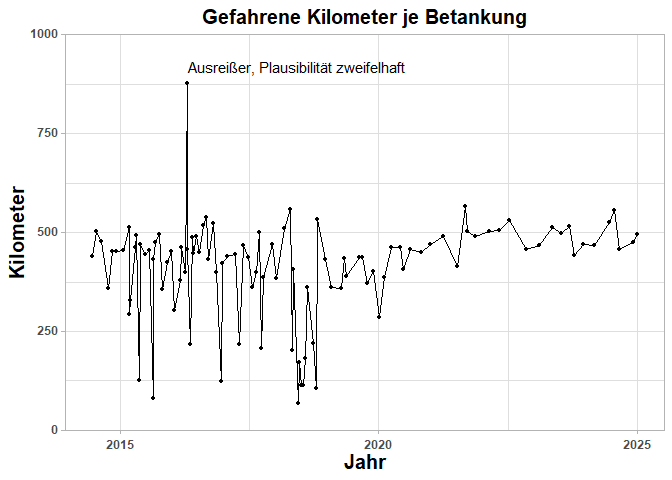
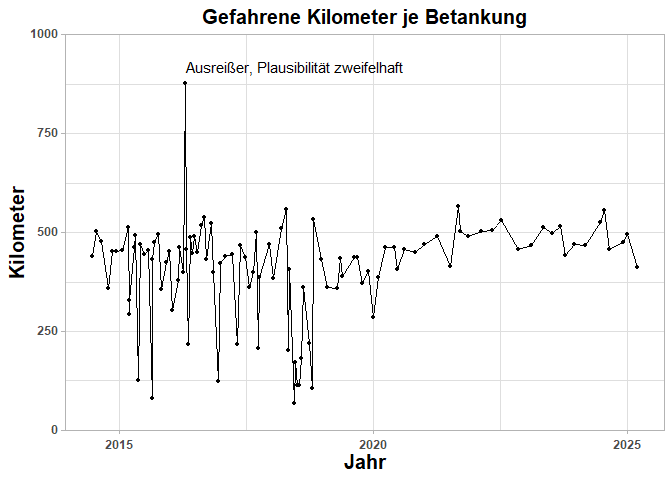
Markdown-Präsentationen aktualisiert.

diff --git a/Tankstatistik_Markdown_GitHub.md b/Tankstatistik_Markdown_GitHub.md
@@ -1,20 +1,18 @@
 Tankstatistik
 ================
 Bart R. Dutkiewicz
-27.03.2025
+25.05.2025
 
 ## Tank- und Verbrauchsstatistik eines Toyota Corolla Bj. 1998 ab Juni 2014
 
-In diesem Dokument wird die Tankstatistik eines Toyota Corolla Bj. 1998
+In diesem Projekt wird die Tankstatistik eines Toyota Corolla Bj. 1998
 seit 2014 fortlaufend ausgewertet. Das Auto wird durch den Urheber
 dieser Auswertung überwiegend innerhalb der Region Stuttgart bewegt und
-an städischen (sehr selten: an der Autobahn) Tankstellen der selben
-Region betankt.
+an städischen Tankstellen betankt (in sehr seltenen Fällen an der
+Autobahn).
 
-Dieses Dokument und der zugrundeliegende Code ist
-<b>Work-In-Progress</b> (seit 2015) und das Datum bezieht sich auf die
-letzte <i>wesentliche</i> Änderung im Code. <b>Der Datensatz wird
-laufend ergänzt.</b> Die verwendete Version von R ist 4.4.3.
+Dieses Projekt ist <b>Work-In-Progress</b> und der Datensatz wird
+laufend ergänzt.</b> Die verwendete Version von R ist 4.5.1.
 
 <b>Bei dem Auto handelt es sich um:</b>
 
@@ -182,7 +180,8 @@ auf einem Mobiltelefon (Kilometerstände) erfasst:</b>
     ## 102  27     8 2024     17      9 39.01      1.719 67.06 456.000    150366
     ## 103   2    12 2024     10     13 37.77      1.719 64.93 474.200    150840
     ## 104  31    12 2024     18     53 41.32      1.749 72.27 495.400    151336
-    ## 105  13     3 2025      7     15 38.42      1.839 70.65      NA        NA
+    ## 105  13     3 2025      7     15 38.42      1.839 70.65 411.650    151747
+    ## 106  21     7 2025     15     18 38.44      1.709 65.69      NA        NA
 
 Es ist zu sehen, dass der Datensatz aufgrund von verlorenen oder
 nicht-erhobenen Daten lückenhaft ist
@@ -425,7 +424,8 @@ df.raw$Euro.Tag <- round(df.raw$Euro.Tag, 4)
     ## 102  27     8 2024     17      9 39.01      1.719 67.06 456    150366
     ## 103   2    12 2024     10     13 37.77      1.719 64.93 474    150840
     ## 104  31    12 2024     18     53 41.32      1.749 72.27 495    151336
-    ## 105  13     3 2025      7     15 38.42      1.839 70.65  NA        NA
+    ## 105  13     3 2025      7     15 38.42      1.839 70.65 412    151747
+    ## 106  21     7 2025     15     18 38.44      1.709 65.69  NA        NA
     ##          Datum Tage Liter.km Euro.km  km.Tag Liter.Tag Euro.Tag
     ## 1   2014-06-20   25   0.0909  0.1363  17.608    1.6000   2.4000
     ## 2   2014-07-15   38   0.0767  0.1203  13.242    1.0155   1.5934
@@ -531,7 +531,8 @@ df.raw$Euro.Tag <- round(df.raw$Euro.Tag, 4)
     ## 102 2024-08-27   97   0.0855  0.1471   4.701    0.4022   0.6913
     ## 103 2024-12-02   29   0.0796  0.1369  16.352    1.3024   2.2390
     ## 104 2024-12-31   72   0.0834  0.1459   6.881    0.5739   1.0037
-    ## 105 2025-03-13   NA       NA      NA      NA        NA       NA
+    ## 105 2025-03-13  130   0.0933  0.1716   3.167    0.2955   0.5435
+    ## 106 2025-07-21   NA       NA      NA      NA        NA       NA
 
 #### Datenstruktur des rekonstruierten Datensatzes
 
@@ -539,7 +540,7 @@ df.raw$Euro.Tag <- round(df.raw$Euro.Tag, 4)
 str(df.raw)
 ```
 
-    ## 'data.frame':    105 obs. of  17 variables:
+    ## 'data.frame':    106 obs. of  17 variables:
     ##  $ Tag       : int  20 15 22 12 7 8 22 6 8 11 ...
     ##  $ Monat     : int  6 7 8 10 11 12 1 3 3 3 ...
     ##  $ Jahr      : int  2014 2014 2014 2014 2014 2014 2015 2015 2015 2015 ...
@@ -594,7 +595,7 @@ und Posit.Cloud zu Verfügung gestellt.
 
 | Liter | Euro |    km | Tage | Betankungen |
 |------:|-----:|------:|-----:|------------:|
-|  3582 | 5205 | 42954 | 3919 |         104 |
+|  3620 | 5275 | 43366 | 4049 |         105 |
 
 Gesamtsummen seit Juni 2014
 
@@ -622,16 +623,16 @@ In den zwei rechten Spalten sind:
 
 |            | Arith. Mittel | Median | Absolute Differenz | Prozentuale Differenz |
 |:-----------|--------------:|-------:|-------------------:|----------------------:|
-| Liter      |         34.44 |  37.72 |               3.28 |                  8.69 |
-| Euro_Liter |          1.45 |   1.42 |              -0.03 |                 -2.19 |
-| Euro       |         50.04 |  50.84 |               0.80 |                  1.58 |
-| km         |        413.02 | 448.50 |              35.48 |                  7.91 |
-| Tage       |         37.68 |  31.50 |              -6.18 |                -19.63 |
-| Liter.km   |          0.08 |   0.08 |               0.00 |                  0.84 |
-| Euro.km    |          0.12 |   0.11 |              -0.01 |                 -6.88 |
-| km.Tag     |         10.96 |  14.24 |               3.28 |                 23.02 |
-| Liter.Tag  |          0.91 |   1.20 |               0.28 |                 23.67 |
-| Euro.Tag   |          1.33 |   1.61 |               0.29 |                 17.72 |
+| Liter      |         34.48 |  37.72 |               3.24 |                  8.60 |
+| Euro_Liter |          1.45 |   1.42 |              -0.03 |                 -2.45 |
+| Euro       |         50.24 |  50.87 |               0.63 |                  1.24 |
+| km         |        413.01 | 448.00 |              34.99 |                  7.81 |
+| Tage       |         38.56 |  32.00 |              -6.56 |                -20.51 |
+| Liter.km   |          0.08 |   0.08 |               0.00 |                  0.85 |
+| Euro.km    |          0.12 |   0.11 |              -0.01 |                 -7.13 |
+| km.Tag     |         10.71 |  14.00 |               3.29 |                 23.50 |
+| Liter.Tag  |          0.89 |   1.18 |               0.28 |                 24.15 |
+| Euro.Tag   |          1.30 |   1.59 |               0.29 |                 18.04 |
 
 Gesamtmittel
 
@@ -652,6 +653,7 @@ Gesamtmittel
 | 2022 |   157 |  292 | 1994 |           4 |
 | 2023 |   235 |  433 | 2904 |           6 |
 | 2024 |   238 |  427 | 2973 |           6 |
+| 2025 |    38 |   71 |  412 |           1 |
 
 Jahressummen
 
@@ -685,24 +687,26 @@ Jahressummen
 | 2022 | 39.25 | 1.87 | 73.08 | 498.50 | 89.50 | 0.08 | 0.15 | 0.82 | 0.44 | 0.82 |
 | 2023 | 39.09 | 1.84 | 72.10 | 484.00 | 64.33 | 0.08 | 0.15 | 1.12 | 0.61 | 1.12 |
 | 2024 | 39.66 | 1.79 | 71.20 | 495.50 | 62.50 | 0.08 | 0.14 | 1.14 | 0.63 | 1.14 |
+| 2025 | 38.42 | 1.84 | 70.65 | 412.00 | 130.00 | 0.09 | 0.17 | 0.54 | 0.30 | 0.54 |
 
 Jahresmittel (arithmetrisch)
 
 #### Mediane
 
-|      | Liter | Euro/Liter |  Euro |    km | Tage | Liter/km | Euro/km | km/Tag | Liter/Tag | Euro/Tag |
-|:-----|------:|-----------:|------:|------:|-----:|---------:|--------:|-------:|----------:|---------:|
-| 2014 | 38.48 |       1.49 | 57.59 | 451.5 | 34.5 |     0.09 |    0.13 |   1.67 |      1.12 |     1.67 |
-| 2015 | 37.47 |       1.42 | 50.51 | 451.0 | 24.0 |     0.08 |    0.11 |   2.10 |      1.56 |     2.10 |
-| 2016 | 37.47 |       1.29 | 48.54 | 449.0 | 19.0 |     0.08 |    0.11 |   2.55 |      1.97 |     2.55 |
-| 2017 | 38.53 |       1.32 | 50.44 | 436.0 | 31.0 |     0.09 |    0.12 |   1.63 |      1.24 |     1.63 |
-| 2018 | 26.54 |       1.46 | 38.72 | 219.0 | 19.0 |     0.12 |    0.18 |   2.04 |      1.40 |     2.04 |
-| 2019 | 36.91 |       1.42 | 51.55 | 396.0 | 38.0 |     0.09 |    0.13 |   1.36 |      0.97 |     1.36 |
-| 2020 | 37.17 |       1.31 | 47.93 | 452.5 | 56.5 |     0.08 |    0.11 |   0.85 |      0.66 |     0.85 |
-| 2021 | 38.50 |       1.61 | 63.01 | 491.0 | 57.0 |     0.08 |    0.13 |   1.11 |      0.68 |     1.11 |
-| 2022 | 39.25 |       1.85 | 72.68 | 503.5 | 83.5 |     0.08 |    0.14 |   0.87 |      0.47 |     0.87 |
-| 2023 | 38.84 |       1.86 | 72.44 | 483.5 | 66.0 |     0.08 |    0.15 |   1.10 |      0.59 |     1.10 |
-| 2024 | 39.52 |       1.77 | 70.98 | 484.5 | 55.0 |     0.08 |    0.15 |   1.29 |      0.72 |     1.29 |
+|      | Liter | Euro/Liter |  Euro |    km |  Tage | Liter/km | Euro/km | km/Tag | Liter/Tag | Euro/Tag |
+|:-----|------:|-----------:|------:|------:|------:|---------:|--------:|-------:|----------:|---------:|
+| 2014 | 38.48 |       1.49 | 57.59 | 451.5 |  34.5 |     0.09 |    0.13 |   1.67 |      1.12 |     1.67 |
+| 2015 | 37.47 |       1.42 | 50.51 | 451.0 |  24.0 |     0.08 |    0.11 |   2.10 |      1.56 |     2.10 |
+| 2016 | 37.47 |       1.29 | 48.54 | 449.0 |  19.0 |     0.08 |    0.11 |   2.55 |      1.97 |     2.55 |
+| 2017 | 38.53 |       1.32 | 50.44 | 436.0 |  31.0 |     0.09 |    0.12 |   1.63 |      1.24 |     1.63 |
+| 2018 | 26.54 |       1.46 | 38.72 | 219.0 |  19.0 |     0.12 |    0.18 |   2.04 |      1.40 |     2.04 |
+| 2019 | 36.91 |       1.42 | 51.55 | 396.0 |  38.0 |     0.09 |    0.13 |   1.36 |      0.97 |     1.36 |
+| 2020 | 37.17 |       1.31 | 47.93 | 452.5 |  56.5 |     0.08 |    0.11 |   0.85 |      0.66 |     0.85 |
+| 2021 | 38.50 |       1.61 | 63.01 | 491.0 |  57.0 |     0.08 |    0.13 |   1.11 |      0.68 |     1.11 |
+| 2022 | 39.25 |       1.85 | 72.68 | 503.5 |  83.5 |     0.08 |    0.14 |   0.87 |      0.47 |     0.87 |
+| 2023 | 38.84 |       1.86 | 72.44 | 483.5 |  66.0 |     0.08 |    0.15 |   1.10 |      0.59 |     1.10 |
+| 2024 | 39.52 |       1.77 | 70.98 | 484.5 |  55.0 |     0.08 |    0.15 |   1.29 |      0.72 |     1.29 |
+| 2025 | 38.42 |       1.84 | 70.65 | 412.0 | 130.0 |     0.09 |    0.17 |   0.54 |      0.30 |     0.54 |
 
 Jahresmittel (median)
 
@@ -721,6 +725,7 @@ Jahresmittel (median)
 | 2022 | 0.00 | -0.01 | -0.39 | 5.00 | -6.00 | 0.00 | 0.00 | 0.05 | 0.03 | 0.05 |
 | 2023 | -0.25 | 0.01 | 0.33 | -0.50 | 1.67 | 0.00 | 0.00 | -0.02 | -0.02 | -0.02 |
 | 2024 | -0.15 | -0.02 | -0.22 | -11.00 | -7.50 | 0.00 | 0.00 | 0.15 | 0.08 | 0.15 |
+| 2025 | 0.00 | 0.00 | 0.00 | 0.00 | 0.00 | 0.00 | 0.00 | 0.00 | 0.00 | 0.00 |
 
 Absolute Differenz Median - Arith. Mittel
 
@@ -739,6 +744,7 @@ Absolute Differenz Median - Arith. Mittel
 | 2022 | -0.01 | -0.67 | -0.54 | 0.99 | -7.19 | -1.02 | -1.55 | 6.20 | 6.69 | 6.20 |
 | 2023 | -0.66 | 0.81 | 0.46 | -0.10 | 2.53 | -0.55 | 0.56 | -2.12 | -3.26 | -2.12 |
 | 2024 | -0.37 | -1.13 | -0.31 | -2.27 | -13.64 | 1.86 | 1.91 | 11.72 | 11.67 | 11.72 |
+| 2025 | 0.00 | 0.00 | 0.00 | 0.00 | 0.00 | 0.00 | 0.00 | 0.00 | 0.00 | 0.00 |
 
 Relative Differenz Median - Arith. Mittel in Prozent
 
@@ -756,9 +762,9 @@ library(tidyverse)
     ## ── Attaching core tidyverse packages ──────────────────────── tidyverse 2.0.0 ──
     ## ✔ dplyr     1.1.4     ✔ readr     2.1.5
     ## ✔ forcats   1.0.0     ✔ stringr   1.5.1
-    ## ✔ ggplot2   3.5.1     ✔ tibble    3.2.1
+    ## ✔ ggplot2   3.5.2     ✔ tibble    3.3.0
     ## ✔ lubridate 1.9.4     ✔ tidyr     1.3.1
-    ## ✔ purrr     1.0.4     
+    ## ✔ purrr     1.1.0     
     ## ── Conflicts ────────────────────────────────────────── tidyverse_conflicts() ──
     ## ✖ dplyr::filter() masks stats::filter()
     ## ✖ dplyr::lag()    masks stats::lag()
@@ -861,7 +867,7 @@ Zunächst wird ein Blick auf die akkumulierten Werte geworfen.
 
 | Liter | Euro |    km | Tage | Betankungen |
 |------:|-----:|------:|-----:|------------:|
-|  3582 | 5205 | 42954 | 3919 |         104 |
+|  3620 | 5275 | 43366 | 4049 |         105 |
 
 Gesamtsummen seit Juni 2014
 
@@ -949,13 +955,14 @@ große Rückgang zwischen 2018 und 2019 erfolgte.
 
 ### Export
 
-Im grundlegenden R-Skript werden folgende Exporte ausgeführt:
+*Im grundlegenden R-Skript werden folgende Exporte ausgeführt*:
 
-- Der Rekonstruierte Datensatz
-- Gesamtsummen und -mittel
-- Jahressummen und -mittel
-- <b>TBD:</b> SQLite (öffentlich)
-- <b>TBD:</b> postgreSQL (persönlich)
+Rekonstruierter Datensatz: - Semi-strukturiert: TSV (auch in einer
+Englischen Version) - Strukturiert: XML, JSON - Binär: RDS, Parquet -
+Datenbank: postgreSQL, SQLite
+
+Beschreibende Statistiken (TSV): - Gesamtsummen und -mittel -
+Jahressummen und -mittel
 
 Diese Exporte und der dazugehörige Code sind kein Teil dieses Dokuments
 und stehen auf GitHub und Posit.Cloud zur Verfügung.
